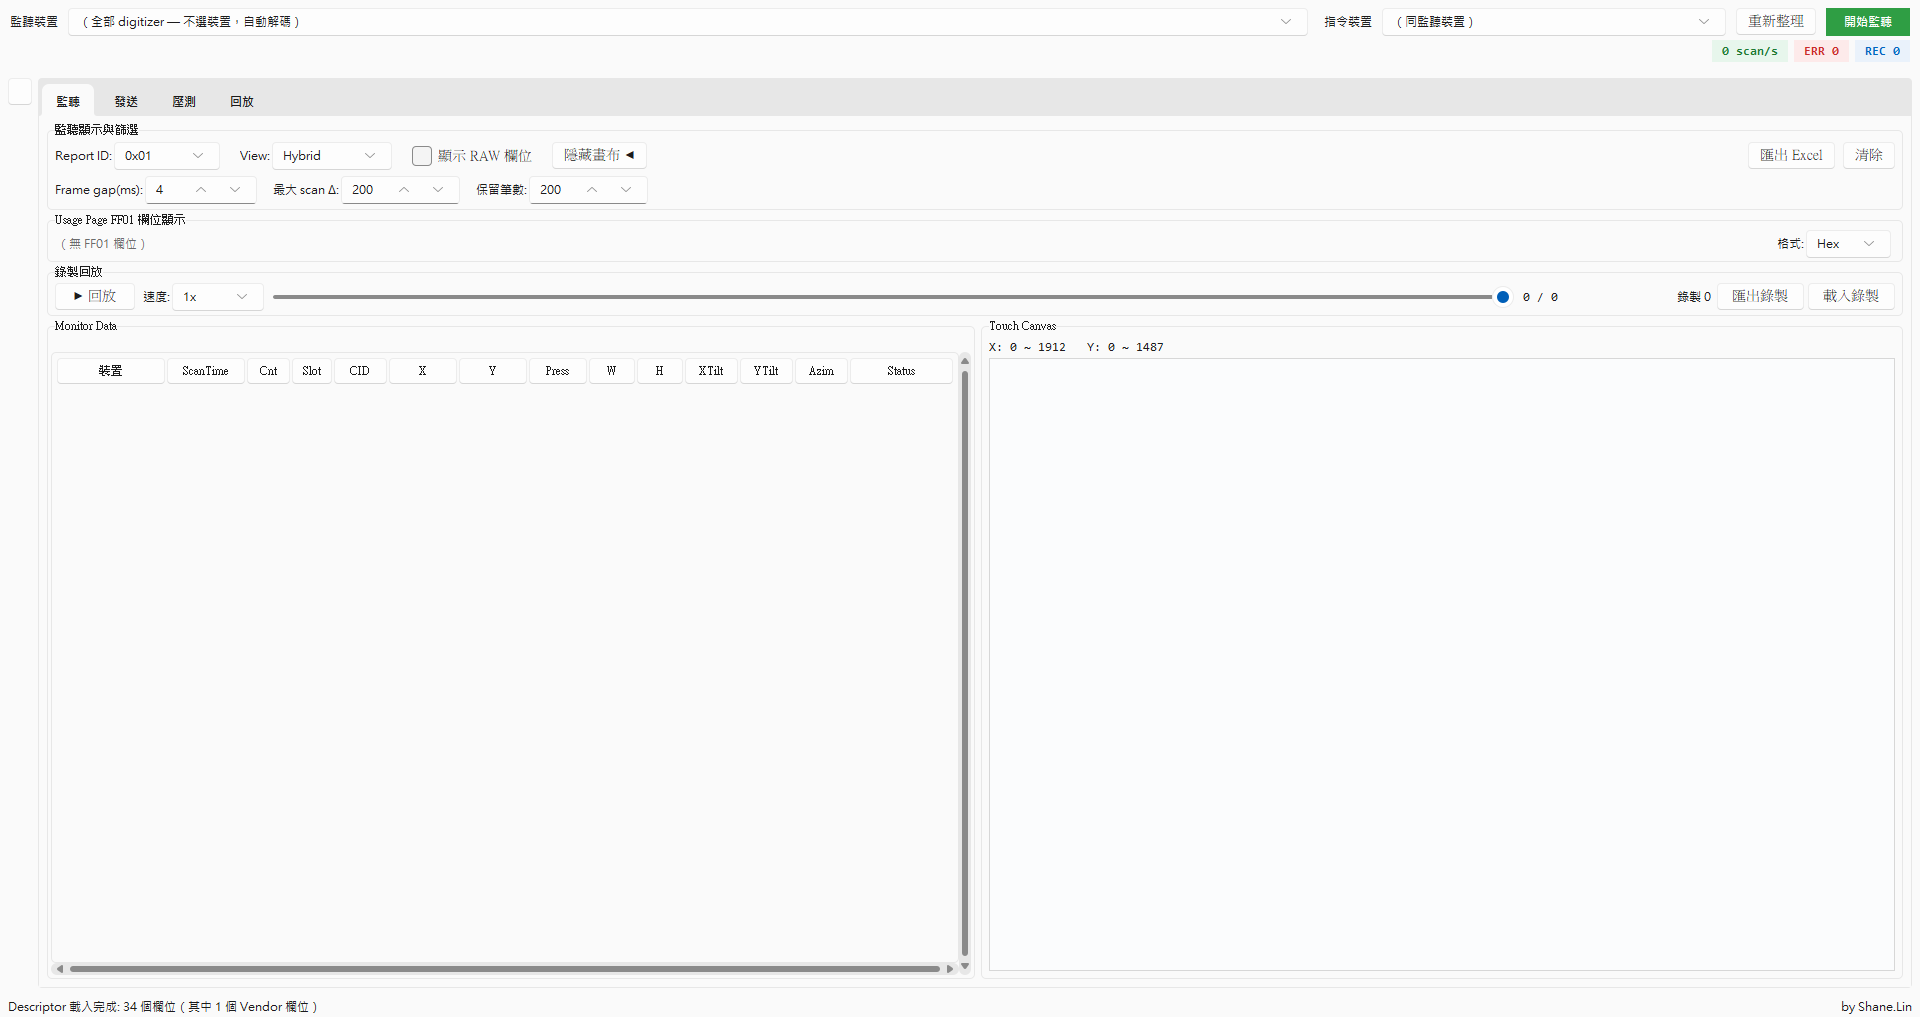
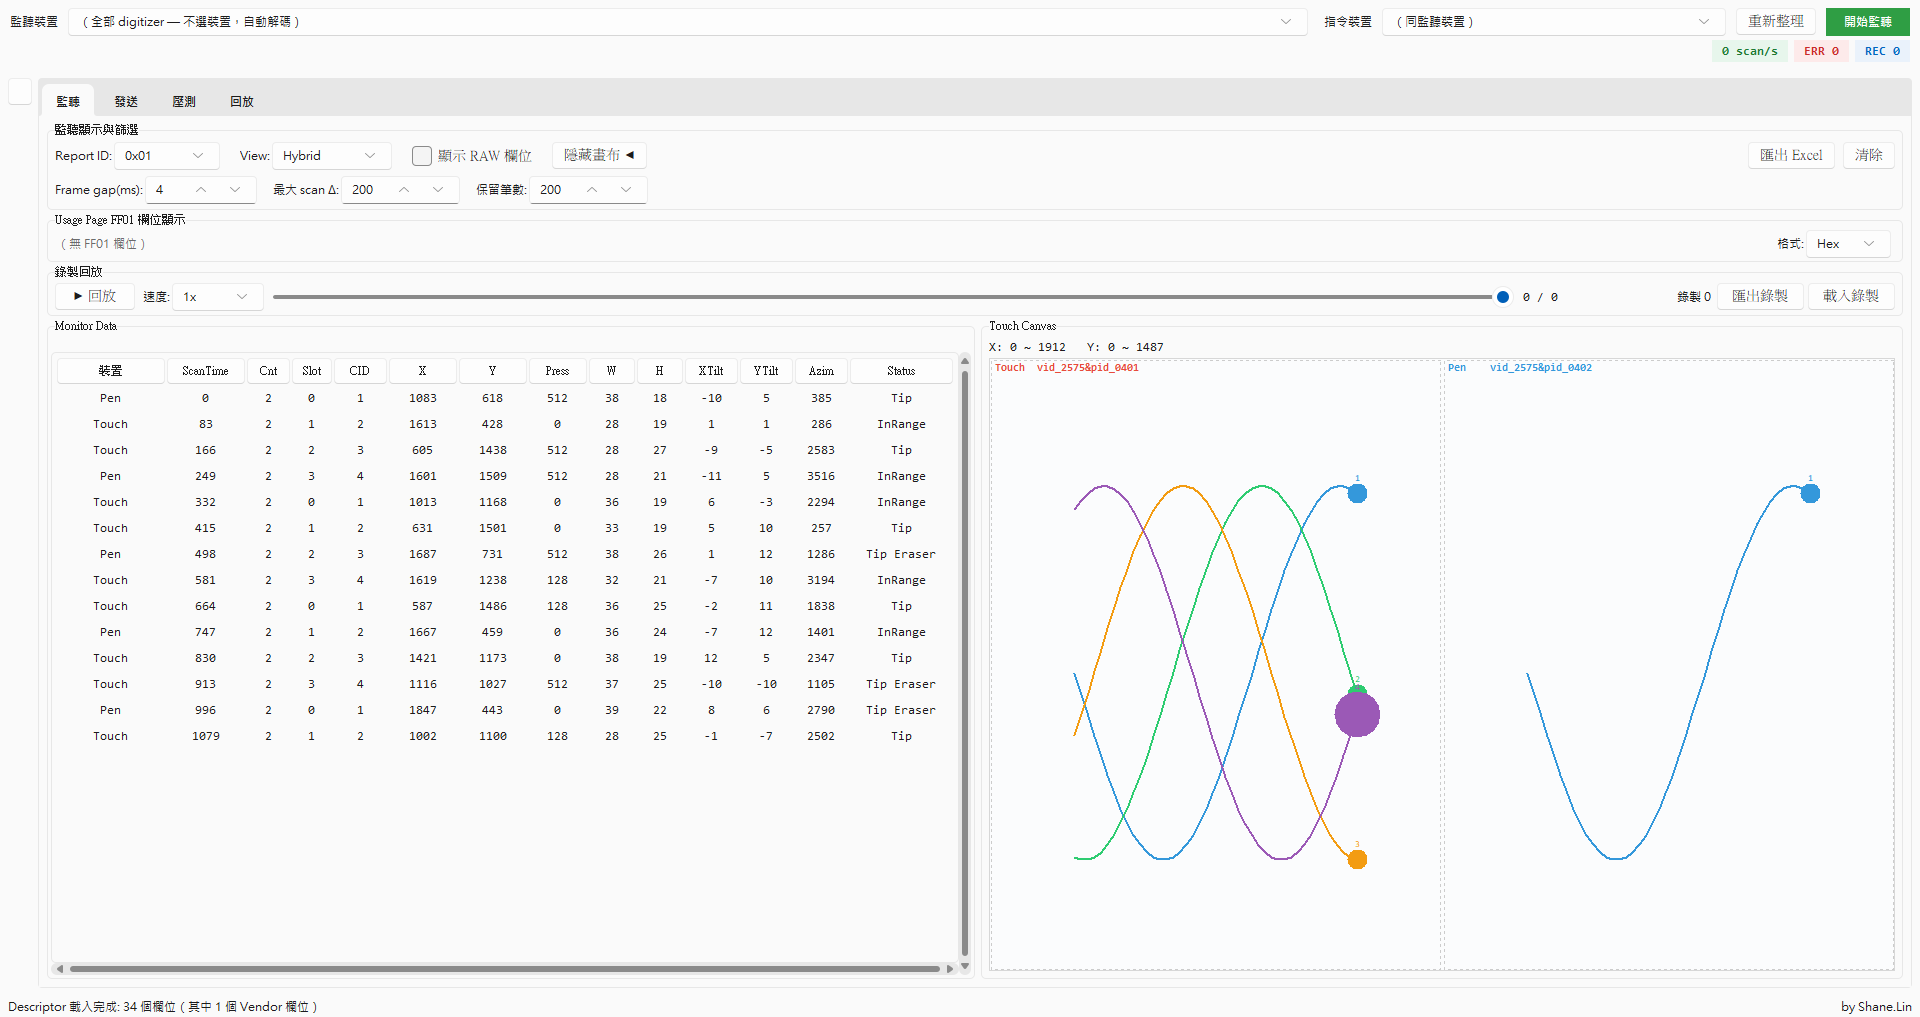
投影片改用灌入假資料的監聽截圖（表格 + 畫布有內容）
capture_shots.py 新增 inject_fake：在監聽畫布(_adigi_devs)與表格(_table)
灌假資料 → ③ Monitor Data 有解碼列、⑤ 畫布有多 ID 彩色軌跡與
confidence=0 放大點。重生成兩份 pptx。

diff --git a/capture_shots.py b/capture_shots.py
@@ -62,6 +62,81 @@ def _write_sample():
         f.write(xml)
 
 
+def inject_fake(app):
+    """灌假資料到監聽畫布(_adigi_devs)與表格(_table)，讓截圖有內容。"""
+    import collections
+    import math
+    import random
+    rng = random.Random(7)
+
+    # ---- 畫布：2 裝置、多接點、軌跡，含一個 confidence=0（放大）----
+    app._all_digi_mode = True
+    devs = {}
+    layout = [("Touch  vid_2575&pid_0401", (0, 4095), (0, 4095), 4),
+              ("Pen    vid_2575&pid_0402", (0, 23040), (0, 14400), 1)]
+    for di, (name, xr, yr, ncont) in enumerate(layout):
+        contacts, trails = {}, {}
+        for c in range(ncont):
+            key = c + 1
+            pts = []
+            for i in range(44):
+                t = i / 43
+                x = xr[1] * (0.18 + 0.64 * t)
+                y = yr[1] * (0.5 + 0.32 * math.sin(t * 5 + c * 1.4))
+                pts.append((x, y))
+            trails[key] = collections.deque(pts, maxlen=500)
+            lx, ly = pts[-1]
+            conf = 0 if (di == 0 and c == 3) else 1   # 一個低信心 → 放大
+            contacts[key] = {"x": lx, "y": ly, "down": True, "conf": conf}
+        devs[name] = {"order": di,
+                      "color": app._SLOT_COLORS[di % len(app._SLOT_COLORS)],
+                      "xr": xr, "yr": yr, "contacts": contacts, "trails": trails}
+    app._adigi_devs = devs
+
+    # ---- 表格：插入假列（依目前欄位 heading 對應）----
+    try:
+        cols = list(app._table["columns"])
+        heads = [app._table.heading(c, "text").strip() for c in cols]
+        for r in range(14):
+            cid = r % 4 + 1
+            vals = []
+            for h in heads:
+                if "裝置" in h:
+                    vals.append("Touch" if r % 3 else "Pen")
+                elif "ScanTime" in h or h.lower() == "scan":
+                    vals.append(r * 83)
+                elif h == "Cnt":
+                    vals.append(2)
+                elif h == "Slot":
+                    vals.append(r % 4)
+                elif h in ("CID", "ContactID"):
+                    vals.append(cid)
+                elif h == "X":
+                    vals.append(420 + rng.randint(0, 1900))
+                elif h == "Y":
+                    vals.append(310 + rng.randint(0, 1200))
+                elif "Press" in h:
+                    vals.append(rng.choice([0, 0, 128, 512]))
+                elif h in ("W", "Width"):
+                    vals.append(rng.randint(28, 42))
+                elif h in ("H", "Height"):
+                    vals.append(rng.randint(18, 28))
+                elif h in ("XTilt", "YTilt"):
+                    vals.append(rng.randint(-12, 12))
+                elif "Azim" in h:
+                    vals.append(rng.randint(0, 3600))
+                elif "Status" in h:
+                    vals.append(rng.choice(["Tip", "InRange", "Tip", "Tip Eraser"]))
+                elif h.startswith("Conf"):
+                    vals.append(rng.choice([1, 1, 1, 0]))
+                else:
+                    vals.append("")
+            app._table.insert("", "end", values=vals)
+    except Exception:
+        import traceback
+        traceback.print_exc()
+
+
 def main():
     _write_sample()
     import hid_tool
@@ -140,8 +215,12 @@ def main():
             pass
         pump(0.3)
 
-    # 監聽：先不開畫布（看表格），再開畫布（各佔一半）
+    # 灌假資料（畫布 + 表格）
     select_tab("監聽")
+    inject_fake(app)
+    pump(0.4)
+
+    # 監聽：先不開畫布（看表格），再開畫布（各佔一半）
     try:
         if getattr(app, "_canvas_shown", False):
             app._toggle_monitor_canvas()
@@ -153,7 +232,12 @@ def main():
             app._toggle_monitor_canvas()
     except Exception:
         pass
-    pump(0.8); grab("05_canvas")
+    pump(0.8)
+    try:
+        app._redraw_digi_canvas()    # 確保畫布畫出假資料
+    except Exception:
+        pass
+    pump(0.4); grab("05_canvas")
 
     # 發送
     if select_tab("發送"):